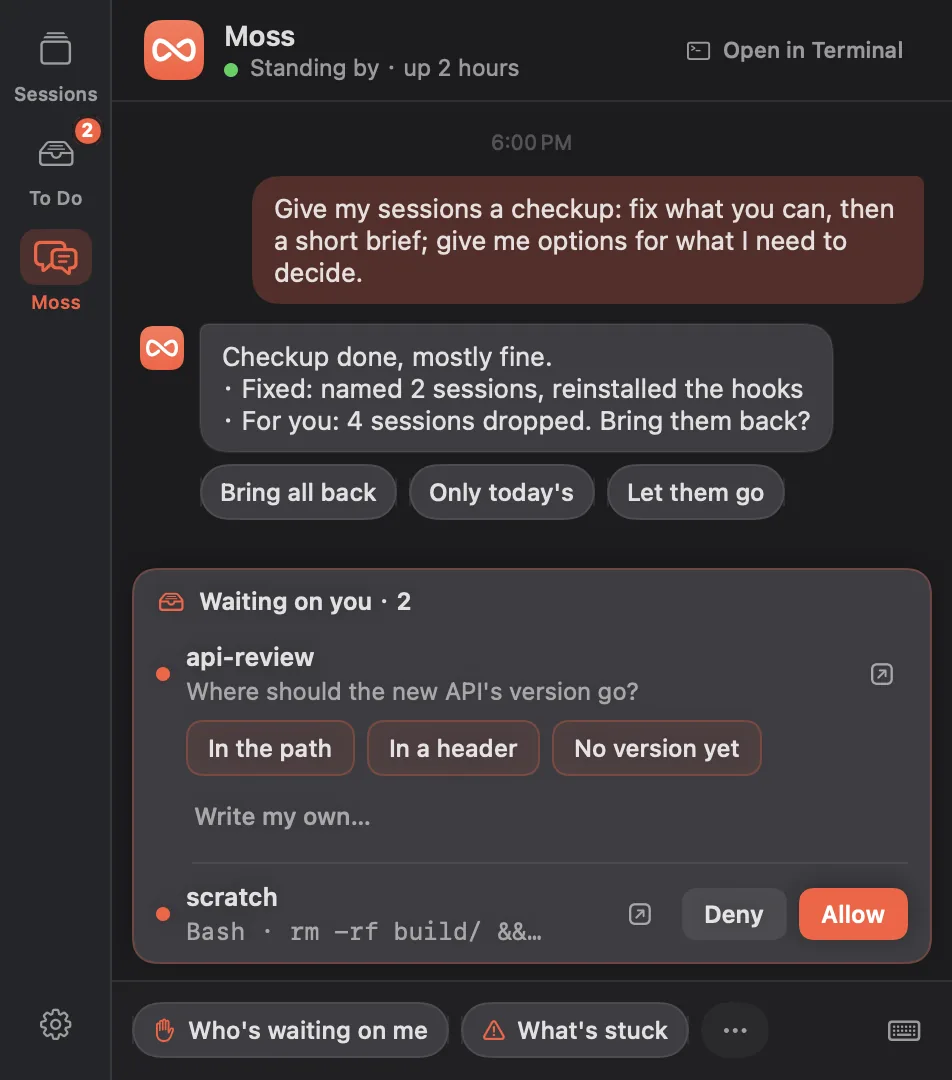
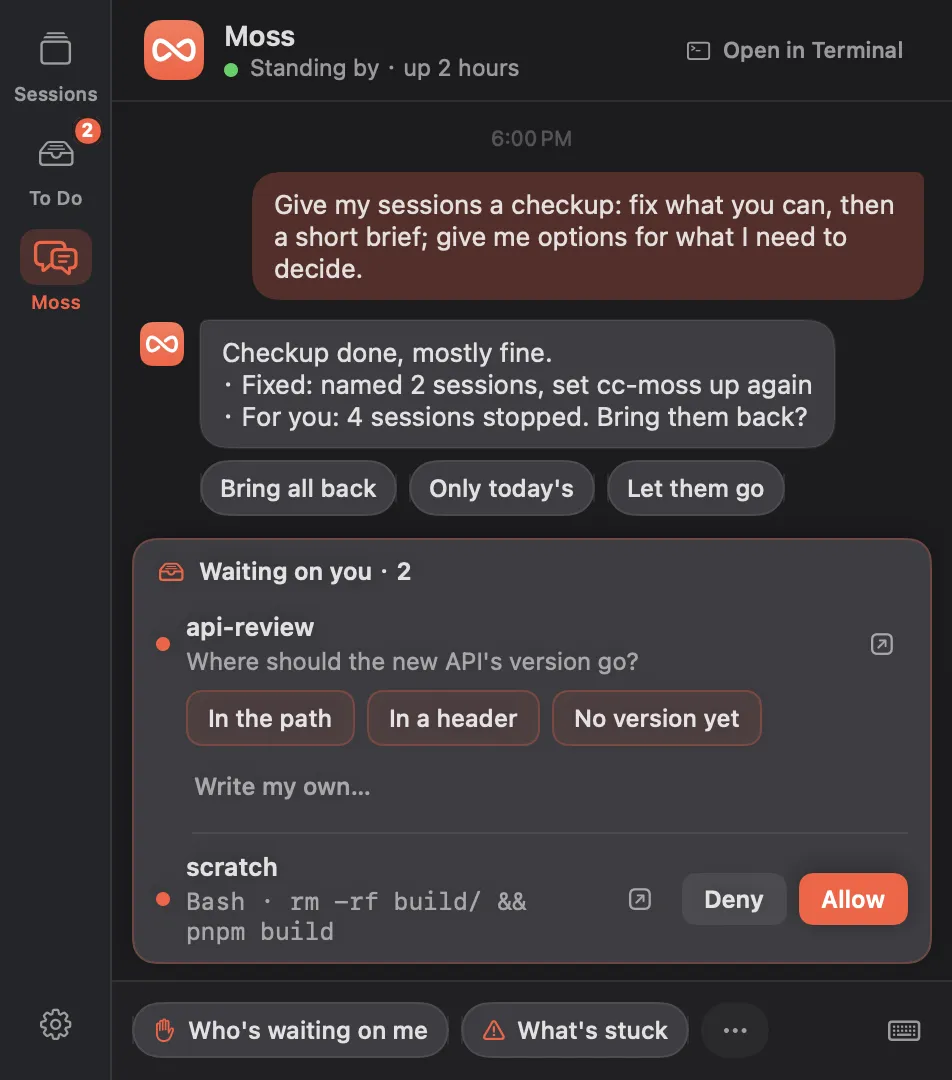
fix: call a session that went away "stopped", not "dropped"
- App, pet bubble, voice, quick actions, doctor --sessions and the guide say stopped (zh stays 断了)
- demo data follows; the checkup brief says set cc-moss up again instead of reinstalled the hooks
- --render --ask takes several ids, so the site's Moss screenshots can be rendered again
- re-render the four Moss screenshots and record the commands

diff --git a/apps/macos/Sources/CCMoss/Render.swift b/apps/macos/Sources/CCMoss/Render.swift
@@ -14,7 +14,7 @@ import SwiftUI
 ///          [--form new|note|close|message|rename|end-archive [--form-name <name>]]
 ///          [--access-lost] [--folders [query]]
 ///          [--settings general|menuBar|mo|notifications|shortcuts|permissions|moss|about [--daemon running|stopped|unknown] [--moss running|restarted|off|failing|nodaemon] [--grants mixed|allowed] [--aliases <alias ls --json file>] [--auth allowed|denied|unavailable] [--pet-on [--voice off|chime|speak]] [--height pt]]
-///          [--asks <ask list --json file> [--ask <id>] [--choose <label>]… [--write [text]] [--focus <id>]
+///          [--asks <ask list --json file> [--ask <id>[,<id>…]] [--choose <label>]… [--write [text]] [--focus <id>]
 ///                  [--page queue] [--waiting-input <session id>] [--bubble <id>] [--hover-option <label>] [--answer answered|late|not-waiting|refused]
 ///                  [--click x,y]] [--press x,y [--command k]]
 ///          [--moss-guide] [--page moss [--moss-chat <moss chat --json file>] [--moss running|thinking|waiting|queued|stuck|blocked|api|off|offline|failing|nodaemon] [--moss-typing [text]]]
@@ -1162,10 +1162,12 @@ actor DemoRunner: CommandRunner {
     }
 
     /// Only question `id` of an `ask list --json` file.
-    static func keep(_ id: String, in data: Data) -> Data {
+    /// `--ask a,b`: only those questions (one id, or several).
+    static func keep(_ ids: String, in data: Data) -> Data {
         guard var top = try? JSONSerialization.jsonObject(with: data) as? [String: Any],
               let list = top["asks"] as? [[String: Any]] else { return data }
-        top["asks"] = list.filter { ($0["id"] as? String) == id }
+        let wanted = Set(ids.split(separator: ",").map(String.init))
+        top["asks"] = list.filter { ($0["id"] as? String).map(wanted.contains) ?? false }
         return (try? JSONSerialization.data(withJSONObject: top)) ?? data
     }
 

diff --git a/apps/macos/Sources/MossKit/MossChat.swift b/apps/macos/Sources/MossKit/MossChat.swift
@@ -279,8 +279,8 @@ public struct MossAction: Identifiable, Equatable, Sendable {
                    texts: ("Which sessions are waiting on me? Most urgent first.", "现在哪些会话在等我？按急的先说。")),
         MossAction(id: "stuck", symbol: "exclamationmark.triangle",
                    titles: ("What's stuck", "谁卡住了"),
-                   details: ("Ones that dropped or stopped moving", "断了或者停着不动的"),
-                   texts: ("Which sessions dropped or got stuck, and where?", "有哪些会话断了或者卡住了？各自卡在哪？")),
+                   details: ("Ones that stopped or got stuck", "断了或者停着不动的"),
+                   texts: ("Which sessions stopped or got stuck, and where?", "有哪些会话断了或者卡住了？各自卡在哪？")),
         MossAction(id: "today", symbol: "checklist",
                    titles: ("What got done today", "今天做了什么"),
                    details: ("What each session finished", "各会话做完的事"),
@@ -288,7 +288,7 @@ public struct MossAction: Identifiable, Equatable, Sendable {
         MossAction(id: "tidy", symbol: "wand.and.stars",
                    titles: ("Tidy up", "整理会话"),
                    details: ("Names the unnamed, clears out long-quiet ones", "补名字、清理很久没动的"),
-                   texts: ("Tidy up my sessions: name the unnamed ones, and give me options for long-dropped or long-idle ones.",
+                   texts: ("Tidy up my sessions: name the unnamed ones, and give me options for ones stopped or idle for a long time.",
                            "整理一下会话：没名字的补名字，断了很久的和闲着很久的给我选项。")),
     ]
 }

diff --git a/apps/macos/Sources/MossKit/PetDirector.swift b/apps/macos/Sources/MossKit/PetDirector.swift
@@ -74,11 +74,11 @@ public struct PetMessage: Equatable, Sendable {
             return PetMessageText(title: title, body: body, primary: L.t("Open", "去看看"), secondary: L.t("Later", "稍后"))
         case .interrupted:
             if n > 1 {
-                return PetMessageText(title: L.t("\(n) sessions dropped", "有 \(n) 个会话断了"),
+                return PetMessageText(title: L.t("\(n) sessions stopped", "有 \(n) 个会话断了"),
                                       body: L.t("Nothing is lost. Bring them back from the panel.", "进度都在，去面板里把它们找回来。"),
                                       primary: L.t("Show", "看看"), secondary: L.t("Not now", "先不"))
             }
-            return PetMessageText(title: L.t("\(name) dropped", "\(name) 断了"),
+            return PetMessageText(title: L.t("\(name) stopped", "\(name) 断了"),
                                   body: L.t("Nothing is lost. One click brings it back.", "别慌，进度都在。点一下就找回来。"),
                                   primary: L.t("Bring Back", "找回"), secondary: L.t("Not now", "先不"))
         case .restored:

diff --git a/apps/macos/Tests/MossKitTests/MossActionTests.swift b/apps/macos/Tests/MossKitTests/MossActionTests.swift
@@ -37,7 +37,7 @@ import Testing
         let tidy = try #require(MossAction.all.first { $0.id == "tidy" })
         #expect(tidy.title(.zh) == "整理会话" && tidy.title(.en) == "Tidy up")
         #expect(tidy.text(.zh) == "整理一下会话：没名字的补名字，断了很久的和闲着很久的给我选项。")
-        #expect(tidy.text(.en) == "Tidy up my sessions: name the unnamed ones, and give me options for long-dropped or long-idle ones.")
+        #expect(tidy.text(.en) == "Tidy up my sessions: name the unnamed ones, and give me options for ones stopped or idle for a long time.")
         #expect(tidy.detail(.zh) == "补名字、清理很久没动的")
     }
 

diff --git a/apps/macos/Sources/CCMoss/PetPrototype.swift b/apps/macos/Sources/CCMoss/PetPrototype.swift
@@ -698,7 +698,7 @@ struct BubblesSheet: View {
                     pose: .needsYou)
                 scene(
                     PetBubble(kind: .interrupted,
-                              title: L.t("fix-invoice dropped", "fix-invoice 断了"),
+                              title: L.t("fix-invoice stopped", "fix-invoice 断了"),
                               message: L.t("Nothing is lost. One click brings it back.", "别慌，进度都在。点一下就找回来。"),
                               actions: [L.t("Bring back", "找回"), L.t("Not now", "先不")]),
                     pose: .interrupted)

diff --git a/apps/macos/Sources/CCMoss/MossSessionCards.swift b/apps/macos/Sources/CCMoss/MossSessionCards.swift
@@ -389,7 +389,7 @@ struct MossSessionCardView: View {
         switch s.state {
         case .working: alone ? L.t("Working now", "现在在干活") : L.t("working now", "现在在干活")
         case .waiting: alone ? L.t("Idle now", "现在空闲") : L.t("idle now", "现在空闲")
-        case .interrupted: alone ? L.t("Dropped now", "现在断了") : L.t("dropped now", "现在断了")
+        case .interrupted: alone ? L.t("Stopped now", "现在断了") : L.t("stopped now", "现在断了")
         case .closed: alone ? L.t("Ended", "已结束") : L.t("ended", "已结束")
         }
     }

diff --git a/apps/macos/Sources/CCMoss/SessionForms.swift b/apps/macos/Sources/CCMoss/SessionForms.swift
@@ -268,7 +268,7 @@ extension AppModel {
         let text = switch why {
         case .notInTmux where movable: L.t("Not in tmux", "不在 tmux 里")
         case .notInTmux: L.t("Not in tmux, so it can't be typed into from here", "不在 tmux 里，没法从这里打字")
-        case .dropped: L.t("Dropped; bring it back first", "断了，先找回")
+        case .dropped: L.t("Stopped; bring it back first", "断了，先找回")
         }
         showRowNote(id, text: text, adopt: movable)
     }

diff --git a/apps/macos/Sources/MossKit/Voice.swift b/apps/macos/Sources/MossKit/Voice.swift
@@ -26,7 +26,7 @@ public enum VoiceCue: Equatable, Sendable {
 /// When Mo makes a sound, and what it says (DESIGN-pet §5, §6.4, §6.5).
 ///
 /// - Which kinds, by interaction mode: quiet only "needs you"; everyday adds
-///   "dropped"; active adds "back" and "done".
+///   "stopped"; active adds "back" and "done".
 /// - Do not disturb: silent.
 /// - At most one sound every 30 s, chime or speech alike.
 /// - Only the bubble's title (a session name and our own words), never

diff --git a/apps/macos/Tests/MossKitTests/VoicePolicyTests.swift b/apps/macos/Tests/MossKitTests/VoicePolicyTests.swift
@@ -88,7 +88,7 @@ import Testing
             #expect(VoicePolicy.phrase(PetMessage(alert), names: ["job-a"]) == "job-a 断了")
         }
         L.$override.withValue(.en) {
-            #expect(VoicePolicy.phrase(PetMessage(alert), names: ["job-a"]) == "job-a dropped")
+            #expect(VoicePolicy.phrase(PetMessage(alert), names: ["job-a"]) == "job-a stopped")
         }
     }
 }

diff --git a/crates/cc-moss/src/cmd/checkup.rs b/crates/cc-moss/src/cmd/checkup.rs
@@ -390,7 +390,7 @@ pub fn table(facts: &Value, zh: bool) -> String {
         });
         let state = match (s["status"].as_str(), zh) {
             (Some("interrupted"), true) => "断了",
-            (Some("interrupted"), false) => "dropped",
+            (Some("interrupted"), false) => "stopped",
             (_, true) => "运行中",
             (_, false) => "running",
         };
@@ -413,7 +413,7 @@ pub fn table(facts: &Value, zh: bool) -> String {
             notes.push(if zh {
                 format!("断了 {d}")
             } else {
-                format!("dropped {d} ago")
+                format!("stopped {d} ago")
             });
         }
         if let Some(secs) = s["idle_for_secs"].as_i64().filter(|s| *s >= 86_400) {
@@ -725,7 +725,7 @@ mod tests {
         let en = table(&facts, false);
         assert!(
             en.contains("no name")
-                && en.contains("dropped 3 days")
+                && en.contains("stopped 3 days")
                 && en.contains("folder is gone"),
             "{en}"
         );

diff --git a/docs/guide.en.md b/docs/guide.en.md
@@ -245,7 +245,7 @@ records these as usual:
   it first. It has no Move into tmux either, and `adopt` refuses it with `background`: closing a terminal can't stop it.
 - When you `/resume` inside a session, Claude Code first moves that session to the background and the window shows the
   one you picked. cc-moss follows: the background process takes over the moved session, on the same row. Once the
-  background lets it go, one that never said a word is over, and any other shows as dropped, ready to bring back.
+  background lets it go, one that never said a word is over, and any other shows as stopped, ready to bring back.
 - While any Claude Code process runs a conversation (in a terminal or in the background), `restore` won't start a
   second copy, even before cc-moss has heard of it.
 
@@ -568,7 +568,7 @@ a dot in the brand color when there's a reply you haven't seen.
   today and Tidy up, plus the Claude Code commands that suit your account (see below). What doesn't fit on one row
   goes under ⋯ at the end. The order follows how much you use each one on this Mac, recent uses counting more, and
   what's going on moves the matching one forward: Who's waiting on me when To Do has something, What's stuck when a
-  session dropped, Usage when your last `/usage` showed something at 80%. Moss can suggest a few too; they go first
+  session stopped, Usage when your last `/usage` showed something at 80%. Moss can suggest a few too; they go first
   for 24 hours, with a small sparkle. The order is set when you open the page, so it holds still while you click.
 - **Your own words.** The keyboard icon at the end of the bar swaps in a text box (Return sends, ⇧Return for a new
   line); click it again to go back. When Claude Code has a suggestion waiting in Moss's input, a faint "↳ …" floats
@@ -630,16 +630,16 @@ cc-moss moss chat --json                                 # the last 200 messages
 Click Checkup or Tidy up on the Moss page. Moss fixes what doesn't need you, then sends a brief of a few lines: what
 it fixed and what's left for you to decide. What needs you comes as buttons, and Moss acts only once you click; if
 nothing's wrong, it says so in one line. Tidy up is about sessions only: names for the ones without, and choices for
-ones dropped or idle for a long time.
+ones stopped or idle for a long time.
 
 | What it finds | What Moss does |
 |---|---|
 | A tmux name that doesn't match the session's name | Matches them up |
 | Hooks or alias links broken or missing | Fixes them (like `cc-moss setup` plus `doctor --fix`) |
 | A session with no name (just an id) | Names it after its folder, with `-2` when taken; a name with spaces, punctuation tmux can't take, or too long, is tidied into a standard one (24 characters at most). Renaming types `/rename` into the session, only while it's idle with nothing typed |
-| Dropped, and its folder is gone | Stops offering it back (it can't come back), and tells you afterwards |
-| Dropped, and it could carry on | Asks whether to bring them back, with one button naming which (bringing back starts sessions and uses your plan) |
-| Dropped more than 7 days ago | Asks: stop reminding, or keep it |
+| Stopped, and its folder is gone | Stops offering it back (it can't come back), and tells you afterwards |
+| Stopped, and it could carry on | Asks whether to bring them back, with one button naming which (bringing back starts sessions and uses your plan) |
+| Stopped more than 7 days ago | Asks: stop reminding, or keep it |
 | Open but untouched for 3 days | Asks: close it, or keep it (closing ends it) |
 | Waiting on your answer or reply | Leaves it, and tells you how many are in To Do |
 
@@ -655,7 +655,7 @@ works too.
 
 **How Moss acts.** Moss's sandbox can't reach your sessions, so it asks the daemon to act for it
 (`cc-moss moss act`, which is for Moss and isn't listed in the help). That covers only these: matching tmux names,
-fixing the install, renaming a session, and no longer offering back a dropped session whose folder is gone. Those
+fixing the install, renaming a session, and no longer offering back a stopped session whose folder is gone. Those
 it does without asking. Bringing back, no longer offering back, ending, archiving and deleting archived sessions need your go-ahead: Moss asks
 first, and cc-moss itself puts the yes button under the question, saying what it agrees to, with each session's
 folder ("End work · ~/code/work"). When two open sessions share a name, Moss can't ask about either by that name
@@ -666,7 +666,7 @@ on which session, on the strength of which message, and how it went). For a Moss
 `[moss] actions = false` (or `cc-moss config set moss.actions false`).
 
 The checkup reads the facts `cc-moss doctor --sessions --json` gives: for each session, whether its name was made up
-automatically, whether its folder is there, how long it has been dropped or idle, whether it's working or waiting on
+automatically, whether its folder is there, how long it has been stopped or idle, whether it's working or waiting on
 you, whether its tmux name matches, and a suggested name; plus whether the hooks and alias links are in order. What
 can't be told is `"unknown"`, never taken as broken. None of it is from your conversations.
 
@@ -784,7 +784,7 @@ starts a new line, Esc closes it, and ↑ ↓ jump to the previous or next sessi
 may have moved as its state changed; the list follows it). A busy session gets the line too, saying "It's busy; this
 waits until it's done", without a suggestion. The line is locked while it sends; if sending fails, your text stays
 and the reason shows under it. When the line can't open, it says why: the session isn't in tmux (with Move into
-tmux → when it can move), or it dropped (bring it back first). Sessions asking for your OK or a choice are answered
+tmux → when it can move), or it stopped (bring it back first). Sessions asking for your OK or a choice are answered
 in To Do.
 
 **Search.** Typing searches, and the results are one ranked list: names that start with what you typed first, then

diff --git a/.sdd/004-moss-agent/notes/round-0310-design.md b/.sdd/004-moss-agent/notes/round-0310-design.md
@@ -59,3 +59,28 @@
 - O1 动态超过 6 小时不再送；超过 15 分钟的带上发生时间。
 - O2 `blocked` 时 Moss 页给「打开 Moss 的窗口」按钮，在用户常用的终端里接上 Moss 的 tmux 窗格。
 - A3–A5 照上文。
+
+## 截图渲染命令
+
+官网 Moss 页截图 `site/assets/moss.{zh,en}.{light,dark}.webp`（952×1080）：体检简报带三个按钮，下面是实时的「等你处理」卡（接口评审 / api-review 的问题 + 草稿 / scratch 的权限）。2026-11-09（F65）按下面的命令重出，和旧图逐张对过构图；唯一差别是 scratch 的命令现在折成两行（当前 App 的画法，旧图是一行加省略号）。
+
+在 `apps/macos` 下，先 `scripts/swift.sh build --build-system native -j 2`，再：
+
+```sh
+OUT=/path/to/out   # 任意临时目录
+for lang in zh en; do for mode in light dark; do
+  flag=""; [ "$mode" = dark ] && flag="--dark"
+  TZ=Asia/Shanghai CC_MOSS_LANG=$lang .build/debug/CCMoss --render "$OUT/moss.$lang.$mode.png" \
+    --demo demo/sessions.$lang.json --page moss \
+    --moss-chat demo/moss-checkup.$lang.json \
+    --asks demo/asks.$lang.json --ask 3f2a9c4e81d07b55,e9a51b7c3d2f8064 \
+    --moss-quick-uses waiting:1 \
+    --now 2026-10-16T10:05:00Z $flag
+  cwebp -quiet -q 80 "$OUT/moss.$lang.$mode.png" -o "../../site/assets/moss.$lang.$mode.webp"
+done; done
+```
+
+- `TZ=Asia/Shanghai`：气泡上方的时间显示为 18:00 / 6:00 PM，和旧图一致。
+- `--ask` 接受用逗号分开的多个 id（F65 加的），只留这两条问题；不加会是 5 条，卡片会把对话顶上去。
+- `--moss-quick-uses waiting:1`：有用过的记录，快捷栏上方不出「点一个试试」的提示，排序也和旧图一样。
+- `cwebp -q 80`：文件约 50 KB，和旧图相当。
